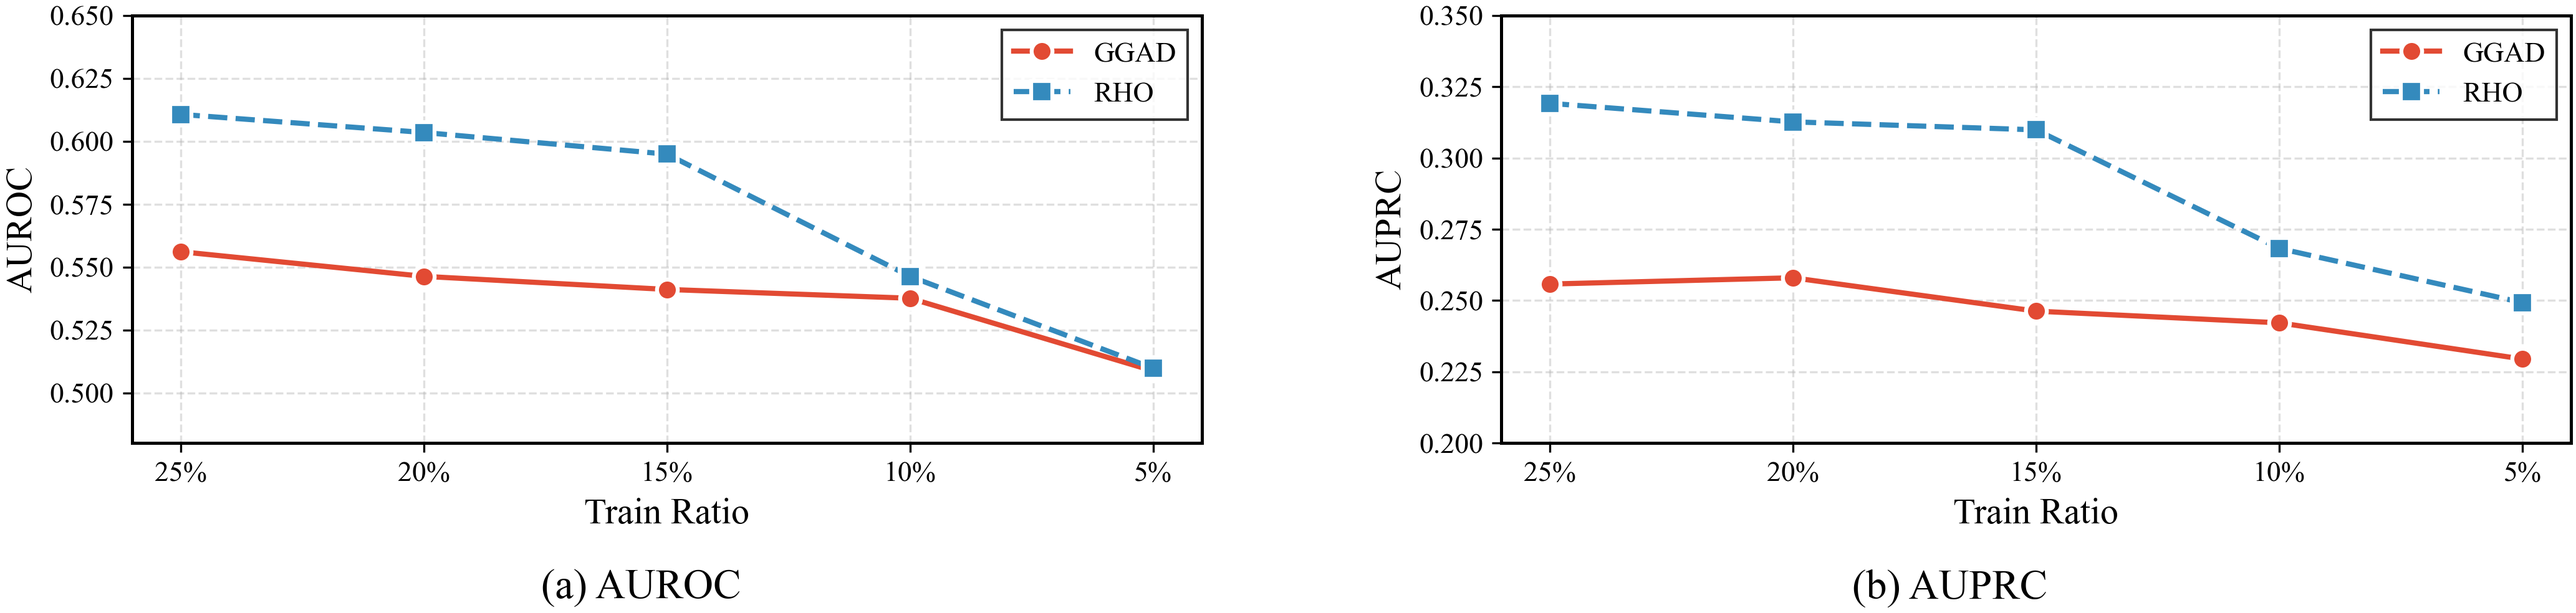
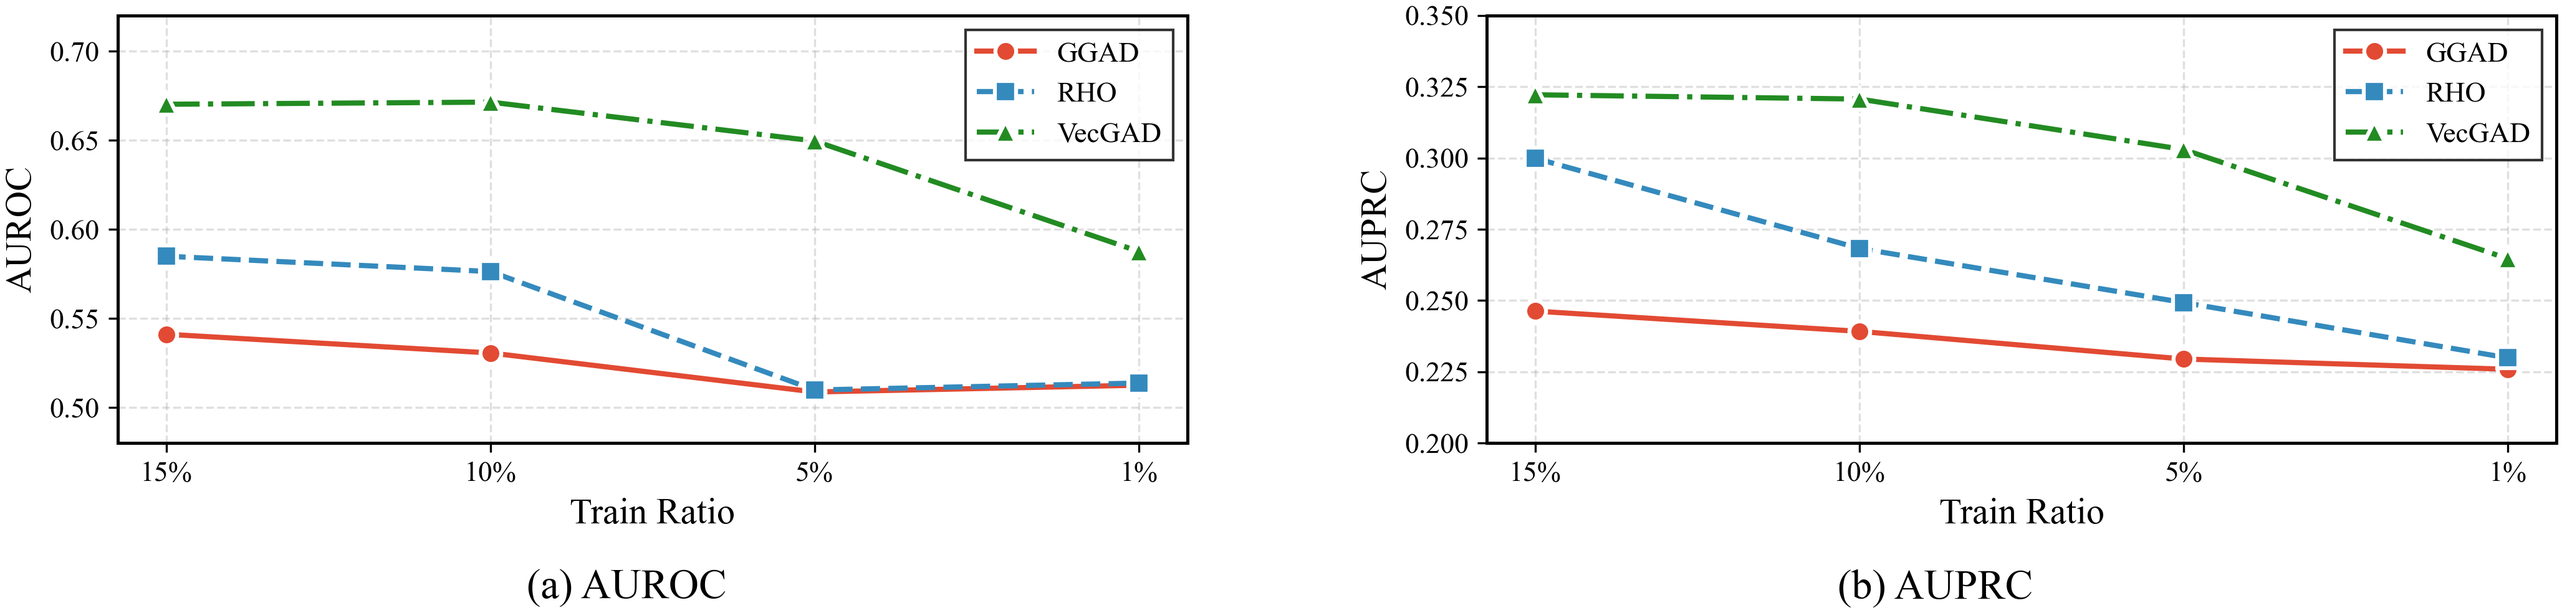
figs: add VecGAD to degradation

diff --git a/figs/degradation/degradation.py b/figs/degradation/degradation.py
@@ -18,22 +18,24 @@ plt.rcParams.update({
     'lines.markersize': 8,
 })
 
-# 数据 - Train Ratio从25%到5%（展示衰退趋势）
-train_ratios = [25, 20, 15, 10, 5]  # x轴：从高到低
-x_labels = ['25%', '20%', '15%', '10%', '5%']
+# 数据 - Train Ratio从15%到1%（展示衰退趋势）
+train_ratios = [15, 10, 5, 1]  # x轴：从高到低
+x_labels = ['15%', '10%', '5%', '1%']
 
-# AUROC数据（按25%, 20%, 15%, 10%, 5%顺序）
-auroc_ggad = [0.5561, 0.5463, 0.5411, 0.5376, 0.5087]
-auroc_rho = [0.6107, 0.6035, 0.5949, 0.5463, 0.5098]
+# AUROC数据（按15%, 10%, 5%, 1%顺序）
+auroc_ggad = [0.5411, 0.5306, 0.5087, 0.5125]
+auroc_rho = [0.5849, 0.5763, 0.5098, 0.5137]
+auroc_vecgad = [0.6702, 0.6714, 0.6496, 0.5876]
 
-# AUPRC数据（按25%, 20%, 15%, 10%, 5%顺序）
-auprc_ggad = [0.2558, 0.2580, 0.2463, 0.2422, 0.2295]
-auprc_rho = [0.3192, 0.3127, 0.3099, 0.2683, 0.2493]
+# AUPRC数据（按15%, 10%, 5%, 1%顺序）
+auprc_ggad = [0.2463, 0.2392, 0.2295, 0.2259]
+auprc_rho = [0.2999, 0.2683, 0.2493, 0.2299]
+auprc_vecgad = [0.3222, 0.3207, 0.303, 0.2647]
 
 # KDD风格的颜色和标记
-colors = ['#E24A33', '#348ABD']  # 红、蓝
-markers = ['o', 's']  # 圆、方
-linestyles = ['-', '--']
+colors = ['#E24A33', '#348ABD', '#228B22']  # 红、蓝、绿
+markers = ['o', 's', '^']  # 圆、方、三角
+linestyles = ['-', '--', '-.']
 
 # 创建图形
 fig, axes = plt.subplots(1, 2, figsize=(14, 3.5))
@@ -49,12 +51,16 @@ ax1.plot(range(len(train_ratios)), auroc_rho,
          color=colors[1], marker=markers[1], 
          linestyle=linestyles[1], label='RHO',
          markeredgecolor='white', markeredgewidth=1.5)
+ax1.plot(range(len(train_ratios)), auroc_vecgad, 
+         color=colors[2], marker=markers[2], 
+         linestyle=linestyles[2], label='VecGAD',
+         markeredgecolor='white', markeredgewidth=1.5)
 
 ax1.set_xlabel('Train Ratio')
 ax1.set_ylabel('AUROC')
 ax1.set_xticks(range(len(train_ratios)))
 ax1.set_xticklabels(x_labels)
-ax1.set_ylim([0.48, 0.65])
+ax1.set_ylim([0.48, 0.72])
 ax1.legend(loc='upper right', frameon=True, edgecolor='black', fancybox=False)
 ax1.grid(True, linestyle='--', alpha=0.4, linewidth=0.8)
 fig.text(0.25, 0.02, '(a) AUROC', ha='center', fontsize=16)
@@ -69,6 +75,10 @@ ax2.plot(range(len(train_ratios)), auprc_ggad,
 ax2.plot(range(len(train_ratios)), auprc_rho, 
          color=colors[1], marker=markers[1], 
          linestyle=linestyles[1], label='RHO',
+         markeredgecolor='white', markeredgewidth=1.5)
+ax2.plot(range(len(train_ratios)), auprc_vecgad, 
+         color=colors[2], marker=markers[2], 
+         linestyle=linestyles[2], label='VecGAD',
          markeredgecolor='white', markeredgewidth=1.5)
 
 ax2.set_xlabel('Train Ratio')
